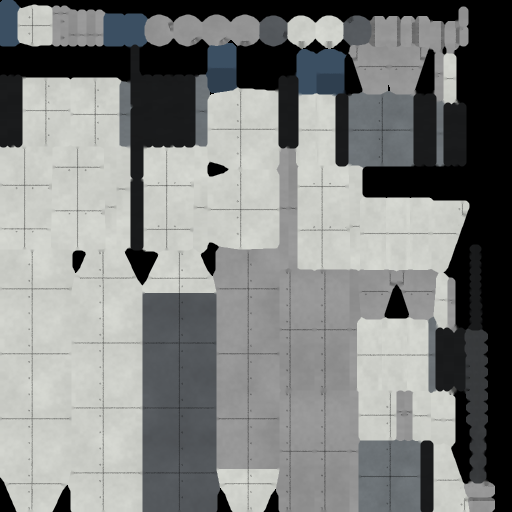
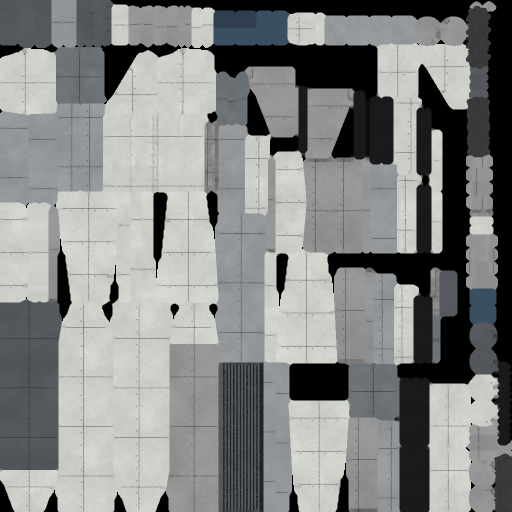
Swift is a winged airdrop plane: flies through the unload circle without stopping, riders fall spread over it and land 2.5 s later
Claude-Session: https://claude.ai/code/session_01EkPmaiVXHVPKWnxR7eMipw

diff --git a/src/sim/systems.rs b/src/sim/systems.rs
@@ -879,11 +879,17 @@ fn think(
         if effects.loaded.iter().any(|l| l.0 == u.id) {
             continue;
         }
+        // Still falling from an airdrop: orders wait for the landing.
+        if mover.as_ref().is_some_and(|m| m.drop > 0.0) {
+            continue;
+        }
         let (pos, id, owner) = (body.pos, u.id, u.owner);
         let team = game.team_of(owner);
         let is_struct = df.is_structure();
         let plane = df.is_plane();
         let arrive = if plane { 9.0 } else { 0.8 };
+        // A transport plane cannot stop to load: it scoops up what it flies close over.
+        let scoop = if plane { PLANE_SCOOP } else { 0.0 };
         let mut goal: Option<V2> = None;
         let mut pop = false;
         // Popped orders that go round again (ferry routes; patrols always do), and an order to do first.
@@ -1372,7 +1378,7 @@ fn think(
             }
             Some(Order::Load(tid)) => {
                 pop = true;
-                let near = |t: &Cen| pos.dist(t.pos) <= 2.5 + t.radius + df.radius();
+                let near = |t: &Cen| pos.dist(t.pos) <= 2.5 + t.radius + df.radius() + scoop;
                 if is_struct {
                     // An occupiable building does not fetch anybody: infantry walk in.
                 } else if let Some(tr) = &df.transport {
@@ -1471,7 +1477,7 @@ fn think(
                                 }
                             });
                             if let Some(t) = best.and_then(|b| census.get(b.1)) {
-                                if pos.dist(t.pos) <= 2.5 + t.radius + df.radius() {
+                                if pos.dist(t.pos) <= 2.5 + t.radius + df.radius() + scoop {
                                     commands.entity(t.e).insert(Hosted(id));
                                     effects.loaded.push((t.id, id));
                                 } else {
@@ -1532,7 +1538,7 @@ fn think(
                     });
                     if let Some(t) = best.and_then(|b| census.get(b.1)) {
                         pop = false;
-                        if pos.dist(t.pos) <= 2.5 + t.radius + df.radius() {
+                        if pos.dist(t.pos) <= 2.5 + t.radius + df.radius() + scoop {
                             commands.entity(t.e).insert(Hosted(id));
                             effects.loaded.push((t.id, id));
                         } else {
@@ -1566,49 +1572,69 @@ fn think(
                         ));
                     }
                     pop = true;
-                } else if pos.dist(c) > arrive.max(1.5) {
+                } else if !plane && pos.dist(c) > arrive.max(1.5) {
                     goal = Some(c);
                 } else {
-                    // Everybody out, spread over the circle (a spiral from the middle).
-                    let n = cargo.len() as f32;
+                    let r = radius.max(1.5);
+                    // Who was set down this tick, and where they will stand.
+                    let mut released: Vec<(&Cen, V2)> = vec![];
+                    if plane {
+                        // An airdrop on the go: the plane flies straight through the circle and lets each rider
+                        // go as it passes over his spot; he falls (`Mover.drop`, mostly for show) and lands
+                        // `DROP_SECS` later. What is left when it flies out of the circle comes round again.
+                        let dir = V2::from_angle(body.yaw);
+                        let rel = pos - c;
+                        if rel.len() > r + AIRDROP_MARGIN {
+                            goal = Some(c);
+                        } else {
+                            goal = Some(pos + dir * 30.0);
+                            let along = rel.x * dir.x + rel.y * dir.y;
+                            for t in cargo.iter() {
+                                let spot = drop_spot(t.id, c, r);
+                                if along < (spot.x - c.x) * dir.x + (spot.y - c.y) * dir.y {
+                                    continue;
+                                }
+                                let to = set_down(&map, &nav, spot);
+                                let from = Body { pos, y: body.y, yaw: body.yaw, vel: v2(0.0, 0.0) };
+                                let mover = Mover { anchor: to, path_goal: to, drop: DROP_SECS, drop_from: pos, drop_to: to, drop_h: (body.y - map.h(to)).max(1.0), ..default() };
+                                commands.entity(t.e).try_remove::<Hosted>().try_insert((from, mover));
+                                released.push((t, to));
+                            }
+                        }
+                    } else {
+                        // Everybody out, spread over the circle (a spiral from the middle).
+                        let n = cargo.len() as f32;
+                        for (k, t) in cargo.iter().enumerate() {
+                            let p = set_down(&map, &nav, c + V2::from_angle(k as f32 * 2.4) * (r * ((k as f32 + 0.5) / n).sqrt()));
+                            // Their own orders stay: what they were told to do before or while riding.
+                            commands.entity(t.e).try_remove::<Hosted>().try_insert((Body { pos: p, y: map.h(p), yaw: body.yaw, vel: v2(0.0, 0.0) }, Mover { anchor: p, path_goal: p, ..default() }));
+                            released.push((t, p));
+                        }
+                    }
                     // A dragged circle: infantry go on into the free buildings in it (the nearest to where they
                     // are set down, while there is room); the rest just stand spread out.
-                    let mut room_left: Vec<(u32, V2, i32)> = vec![];
-                    if occupy {
+                    if occupy && !released.is_empty() {
+                        let mut room_left: Vec<(u32, V2, i32)> = vec![];
                         for b in census.list.iter().filter(|b| b.structure && b.done && !b.hosted && b.hp > 0.0 && b.host != id && defs.get(b.def).is_garrison() && c.dist(b.pos) <= radius + b.radius) {
                             let Some(tr) = &defs.get(b.def).transport else { continue };
                             let used: i32 = census.list.iter().filter(|r| r.host == b.id && r.hp > 0.0).map(|r| defs.get(r.def).cargo as i32).sum();
                             room_left.push((b.id, b.pos, tr.capacity as i32 - used));
                         }
                         room_left.sort_by_key(|r| r.0);
-                    }
-                    let mut enter: Vec<(u32, u32)> = vec![];
-                    for (k, t) in cargo.iter().enumerate() {
-                        let mut p = map.clamp(c + V2::from_angle(k as f32 * 2.4) * (radius.max(1.5) * ((k as f32 + 0.5) / n).sqrt()));
-                        if nav.at(&map, p) != 0 {
-                            let (cx, cy) = map.cell_of(p);
-                            if let Some((x, y)) = nearest_free(&nav.occ, map.n, cx, cy) {
-                                p = v2((x as f32 + 0.5) * CELL, (y as f32 + 0.5) * CELL);
+                        for &(t, p) in &released {
+                            let td = defs.get(t.def);
+                            if !td.is_infantry() || !carriable(td) {
+                                continue;
                             }
-                        }
-                        // Their own orders stay: what they were told to do before or while riding.
-                        commands.entity(t.e).try_remove::<Hosted>().try_insert((Body { pos: p, y: map.h(p), yaw: body.yaw, vel: v2(0.0, 0.0) }, Mover { anchor: p, path_goal: p, ..default() }));
-                        let td = defs.get(t.def);
-                        if occupy && td.is_infantry() && carriable(td) {
                             let best = room_left.iter_mut().filter(|r| r.2 >= td.cargo as i32 && census.get(r.0).is_some_and(|b| may_board(&defs, &census, td, b, team))).min_by(|a, b| a.1.dist(p).total_cmp(&b.1.dist(p)).then(a.0.cmp(&b.0)));
                             if let Some(r) = best {
                                 r.2 -= td.cargo as i32;
-                                enter.push((t.id, r.0));
+                                // Their queued orders give way; the others stay where they stand.
+                                commands.entity(t.e).try_insert(Orders(vec![Order::Load(r.0)]));
                             }
                         }
                     }
-                    // Those with a building go to it (their queued orders give way); the others stay where they stand.
-                    for (rid, bid) in enter {
-                        if let Some(t) = census.get(rid) {
-                            commands.entity(t.e).try_insert(Orders(vec![Order::Load(bid)]));
-                        }
-                    }
-                    pop = true;
+                    pop = released.len() == cargo.len();
                 }
             }
             Some(Order::ReclaimArea { pos: c, radius }) => {
@@ -1695,6 +1721,20 @@ const FERRY_PICK: f32 = 12.0;
 const FERRY_COMING: f32 = 40.0;
 const FERRY_SAME: f32 = 4.0;
 const FERRY_DROP: f32 = 6.0;
+/// Airdrops: how long a rider falls (visual, but he is helpless meanwhile), and how far outside the
+/// circle a transport plane is already lined up to start letting go.
+pub const DROP_SECS: f32 = 2.5;
+const AIRDROP_MARGIN: f32 = 4.0;
+/// A transport plane picks units up within this much more than a hovering transport does.
+const PLANE_SCOOP: f32 = 5.0;
+
+/// Where rider `id` of an airdrop over the circle (`c`, `r`) lands: a spread that depends on the id
+/// alone (golden-ratio angle and radius), so every tick agrees however many are already out.
+fn drop_spot(id: u32, c: V2, r: f32) -> V2 {
+    let k = id as f32;
+    let f = k * 0.618034;
+    c + V2::from_angle(k * 2.4) * (r * (f - f.floor()).sqrt())
+}
 
 /// Can unit type `df` of `team` get into `t`? Transports take their own side; infantry also
 /// walk into an empty (neutral) building or one their side already holds. A map building whose
@@ -2305,6 +2345,18 @@ fn locomotion(
         let mv = &df.mv;
         let old = body.pos;
         let turn = mv.turn.to_radians();
+        if m.drop > 0.0 {
+            // An airdrop fall: glides down onto its spot and does nothing else until it lands.
+            m.drop = (m.drop - DT).max(0.0);
+            let t = 1.0 - m.drop / DROP_SECS;
+            body.pos = m.drop_from + (m.drop_to - m.drop_from) * t;
+            let ground = if mv.amphibious { map.surface(body.pos) } else { map.h(body.pos) };
+            body.y = ground + m.drop_h * (1.0 - t * t);
+            m.speed = 0.0;
+            m.path.clear();
+            body.vel = v2(0.0, 0.0);
+            continue;
+        }
         if m.hold > 0.0 && mv.kind != MoveKind::Plane {
             // Set up to fire: stays where it is, hull and all, until the hold runs out.
             m.hold = (m.hold - DT).max(0.0);
@@ -2758,6 +2810,10 @@ fn weapons(
     let g = defs.rules.gravity;
     let tick = game.tick;
     for (u, body, mut ws, mut mover, hosted) in q.iter_mut().sort_by_key::<&Unit, _>(|u| u.id) {
+        // Still falling from an airdrop.
+        if mover.as_ref().is_some_and(|m| m.drop > 0.0) {
+            continue;
+        }
         // Infantry fighting off a storm of their building are too busy to shoot out of it.
         if hosted.is_some_and(|h| effects.stormed.contains(&h.0)) {
             continue;

diff --git a/src/main.rs b/src/main.rs
@@ -3441,6 +3441,52 @@ fn combattest() {
         println!("== Transport aircraft (capacity {cap}, a tank takes 4 slots) offered 10 tanks: carried {most}, set down at the target {moved}, left behind {left}.  APC: {in_apc} of 3 boarded, {out} set down and drove on to their queued goal");
         assert!(most == cap as usize / 4 && moved == most && left == 10 - most && in_apc == 3 && out == 3, "transports");
     }
+    // 9a. Swift transport plane: scoops up troopers it flies over, then drops them over a dragged circle
+    // without stopping; they fall spread over it and land about 2.5 s later.
+    {
+        let (mut app, map) = flat_world(192);
+        let world = app.world_mut();
+        let swift = spawn(world, &map, "fast_transport", 0, v2(60.0, 100.0), 0.0);
+        let men: Vec<u32> = (0..8).map(|k| spawn(world, &map, "trooper", 0, v2(100.0 + (k % 4) as f32 * 1.5, 100.0 + (k / 4) as f32 * 1.5), 0.0)).collect();
+        world.flush();
+        let (target, radius) = (v2(220.0, 100.0), 14.0);
+        let house = spawn(world, &map, "house", NEUTRAL, v2(224.0, 104.0), 0.0);
+        order(world, vec![swift], Order::LoadArea { pos: v2(101.0, 100.7), radius: 10.0 });
+        world.resource_mut::<CommandQueue>().0.push((0, Command::Orders { ids: vec![swift], orders: vec![Order::Unload { pos: target, radius, occupy: true }], queue: true }));
+        let (mut most, mut slowest, mut first_fall, mut landed, mut high) = (0, f32::MAX, None, None, 0.0f32);
+        let mut last = v2(0.0, 0.0);
+        for t in 0..1500u32 {
+            world.run_schedule(SimTick);
+            let mut q = world.query::<&Hosted>();
+            most = most.max(q.iter(world).filter(|h| h.0 == swift).count());
+            let mut q = world.query::<(&Unit, &Body)>();
+            let plane = q.iter(world).find(|(u, _)| u.id == swift).map(|(_, b)| b.pos).unwrap();
+            let mut q = world.query::<(&Unit, &Body, &Mover)>();
+            let falling = q.iter(world).filter(|(u, _, m)| men.contains(&u.id) && m.drop > 0.0).count();
+            if falling > 0 {
+                first_fall.get_or_insert(t);
+                if t > 0 {
+                    slowest = slowest.min(plane.dist(last) / 0.1);
+                }
+                for (u, b, _) in q.iter(world).filter(|(u, _, m)| men.contains(&u.id) && m.drop > 0.0) {
+                    let _ = u;
+                    high = high.max(b.y);
+                }
+            }
+            if first_fall.is_some() && falling == 0 && landed.is_none() {
+                landed = Some(t);
+            }
+            last = plane;
+        }
+        let mut q = world.query::<(&Unit, &Body, Has<Hosted>)>();
+        let spots: Vec<V2> = q.iter(world).filter(|(u, _, h)| men.contains(&u.id) && !h).map(|(_, b, _)| b.pos).collect();
+        let inside = spots.iter().filter(|p| p.dist(target) <= radius + 2.0).count();
+        let in_house = world.query::<&Hosted>().iter(world).filter(|h| h.0 == house).count();
+        let spread = spots.iter().map(|p| p.dist(target)).fold(0.0, f32::max);
+        let secs = landed.zip(first_fall).map_or(0.0, |(l, f)| (l - f) as f32 * 0.1);
+        println!("== Swift airdrop: {most} of 8 scooped up, {inside} landed in the circle and {in_house} walked into the house there (widest {spread:.1} of {radius}), first fall at tick {first_fall:?}, all down {secs:.1} s after, plane never slower than {slowest:.1}, highest rider {high:.1}");
+        assert!(most == 8 && inside + in_house == 8 && in_house > 0 && spread > radius * 0.5 && slowest > 15.0 && (2.0..4.0).contains(&secs) && high > 4.0, "swift airdrop");
+    }
     // 9b. Ferry route: a transport shuttles between its beacon and the drop point until everybody
     // waiting at the beacon is across; they then go on with the orders queued behind the ferry.
     {

diff --git a/art/models_air.py b/art/models_air.py
@@ -224,22 +224,25 @@ def air_transport():
 
 @model
 def fast_transport():
-    """T3 Swift: tilt-rotor assault transport, rotors at the wing tips."""
+    """T3 Swift: high-winged airdrop transport, twin turboprops, T-tail, rear cargo ramp."""
     k = Kit("fast_transport")
     w, h = 0.95, 1.0
     sec = [(-w / 2, 0.1), (w / 2, 0.1), (w / 2 + 0.04, 0.6), (w / 2 - 0.08, h), (-w / 2 + 0.08, h), (-w / 2 - 0.04, 0.6)]
-    k.prism(sec, "y", -1.6, 1.4, "tank", side_mats=["steel_d", "tank", "tank", "team", "tank", "tank"])
-    k.prism(sec, "y", -1.6, -2.15, "tank", scale1=0.45)
-    k.prism([(1.4, 0.55), (2.25, 0.85), (2.25, 1.0), (1.4, h)], "x", -0.3, 0.3, "tank")
-    k.box((0.5, 0.35, 0.2), (0, -1.9, 0.75), "glass", rot=(-35, 0, 0))
-    wing(k, -0.35, 0.65, 1.35, 0.6, 0.05, h, t=0.07, x0=0.1, tip_mat=None)
+    k.prism(sec, "y", -1.5, 1.5, "tank", side_mats=["steel_d", "tank", "tank", "team", "tank", "tank"])
+    k.prism(sec, "y", -1.5, -2.2, "tank", scale1=0.45)
+    k.prism([(1.5, 0.15), (2.5, 0.75), (2.5, 0.95), (1.5, h)], "x", -0.3, 0.3, "tank")  # upswept tail cone
+    k.box((0.5, 0.35, 0.2), (0, -1.85, 0.75), "glass", rot=(-35, 0, 0))
+    wing(k, -0.5, 1.0, 1.9, 0.55, 0.25, h, t=0.09, x0=0.35)
+    k.box((0.7, 2.6, 0.12), (0, -0.1, h + 0.04), "steel", faces={"top": "vent"})  # wing-root fairing
+    fin(k, 0, 1.75, 1.15, 0.75, 0.45, h - 0.05)
+    wing(k, 2.05, 0.45, 0.85, 0.3, 0.15, 2.0, t=0.05, x0=0.0, tip_mat=None)  # T-tailplane
     for s in (-1, 1):
-        fin(k, s * 0.55, 1.75, 0.6, 0.45, 0.2, 0.95, cant=0)
-        k.box((0.04, 1.6, 0.4), (s * (w / 2 + 0.03), 0.0, 0.5), "team")
-    for name, s in (("Rotor_L", -1), ("Rotor_R", 1)):
-        x = s * 1.5
-        k.cyl(0.16, 0.9, (x, -0.45, h + 0.05), "tank", axis="y", seg=10, caps={0: "steel_d"})
-        k.cyl(0.165, 0.12, (x, 0.0, h + 0.05), "team", axis="y", seg=10)
-        rotor(k, name, (x, -0.45, h + 0.28), 0.9, blades=3)
-    k.box((0.9, 0.04, 0.8), (0, 1.42, 0.5), "metal_door")
+        k.box((0.04, 1.6, 0.4), (s * (w / 2 + 0.03), 0.1, 0.5), "team")
+        k.box((0.3, 1.5, 0.4), (s * (w / 2 + 0.08), 0.35, 0.25), "steel")  # gear pods
+        x = s * 1.15
+        k.cyl(0.19, 1.3, (x, -0.95, 0.78), "tank", axis="y", seg=10, caps={0: "steel_d"})
+        k.cyl(0.195, 0.14, (x, -0.55, 0.78), "team", axis="y", seg=10)
+        k.box((0.05, 0.7, 0.2), (x, -0.4, 0.92), "steel_d")  # pylon
+        prop(k, "Prop_L" if s < 0 else "Prop_R", (x, -0.98, 0.78), 0.55, blades=4)
+    k.box((0.85, 0.04, 0.75), (0, 1.62, 0.5), "metal_door", rot=(-8, 0, 0))  # rear ramp
     return k

diff --git a/src/sim/mod.rs b/src/sim/mod.rs
@@ -283,6 +283,16 @@ pub struct Mover {
     /// Seconds left that the unit must stay put after firing a weapon with a `hold` (mortars).
     #[serde(default)]
     pub hold: f32,
+    /// Seconds left of an airdrop fall (`systems::DROP_SECS` at the start): the unit glides from
+    /// `drop_from` to `drop_to`, `drop_h` above the ground at first, and does nothing until it lands.
+    #[serde(default)]
+    pub drop: f32,
+    #[serde(default)]
+    pub drop_from: V2,
+    #[serde(default)]
+    pub drop_to: V2,
+    #[serde(default)]
+    pub drop_h: f32,
 }
 
 /// A unit's wreck, or a piece of debris a building dropped (`piece` > 0).

diff --git a/CLAUDE.md b/CLAUDE.md
@@ -431,7 +431,7 @@ drops terrain at the screen sides (edit `fov/near/far` in place).
   radar car, T2 Overtaker/Crony/Dragoon/Robin/Sparky, T3 Bohdana (the Overtaker moved from T1 on request). Change `tier` in JSON to move a unit.
   Our own additions (not in the mod; they reuse the trooper model): T2 AT Trooper (guided missile) and
   SAM Trooper (homing AA missile). Also ours: Radar Tower Mk2/Mk3 (lattice masts), UC-02R/03R mobile radars
-  (radar car mesh with a raised dish / a radome), T3 Swift fast assault transport (tilt-rotor, 2x Stork speed, 8 slots like the Stork; moved from T2 on request). T3 Cyclone interceptor (stealth fighter model, stealth 2, own
+  (radar car mesh with a raised dish / a radome), T3 Swift airdrop transport plane (winged cargo plane with turboprops, a real `plane`: 2x Stork speed, 8 slots like the Stork; moved from T2 on request; see **Airdrops**). T3 Cyclone interceptor (stealth fighter model, stealth 2, own
   T3 radar 80 so it finds stealthed aircraft) and T3 Phalanx Railgun Battery (own model, own T3 radar 120). (A T1 Flak Trooper existed and was removed on request.)
   Mobile anti-air beyond the T1 MBFAG (requested; there is no T3 SAM trooper, only the T2 one): T2 Hailstorm
   (`flak_carrier`, Dragoon mesh + twin flak guns, airburst flak bursts, air only) and T3 Skylance (`mobile_sam`, Robin mesh + missile box, own level-2
@@ -595,6 +595,16 @@ drops terrain at the screen sides (edit `fov/near/far` in place).
   when full or when nobody who fits is waiting within `FERRY_PICK` or still coming within `FERRY_COMING`. A waiting
   unit gives up when no own transport has that beacon (`Cen::beacon`; `apply_commands` refreshes both fields after
   new orders). `--combattest` "Ferry" line: 6 tanks across in 3 trips, then on to their queued goal.
+- **Airdrops** (the Swift, `MoveKind::Plane` with a `transport` block; `systems.rs`, `Order::Unload`): a transport plane cannot stop, so
+  it never lands. *Unloading*: it flies at the circle (a click is a circle of 3), and once within `AIRDROP_MARGIN` of it flies straight on
+  through, letting each rider go when it passes over his spot (`drop_spot(id, c, r)`: golden-ratio angle and radius from the id alone, so the
+  spread does not depend on who is already out); riders left when it flies out of the circle are dropped on the next pass. A released rider gets
+  `Mover.drop` (`DROP_SECS` 2.5, snapshotted with the Mover): `locomotion` glides it from the plane to its spot, `drop_h` above the ground at
+  first (`h (1 - t^2)`), and `think` / `weapons` leave it alone until it lands - for gameplay the fall is mostly visual, but he is helpless for
+  2.5 s. *Loading*: it scoops up what it flies within `PLANE_SCOOP` (5) more than a hovering transport would (`Load`, `LoadArea`, ferry beacons: it
+  circles round the beacon). `Unload.occupy` (set by the HUD for a dragged circle, also for APCs and the Stork): the infantry set down get
+  `Order::Load(building)` for the nearest free garrisonable building in the circle (capacity and `may_board` counted), the rest stay spread out.
+  `--combattest` "Swift airdrop" line (scoops 8 troopers, drops them over a circle with a house in it, never slows down, they land 2-4 s later).
 - **Small arms** (damage type `SmallArms`: the Trooper and Sniper rifles and every machine gun): every armored class
   takes 0.1 of it (`LightTank`, `MediumTank`); the other classes take what they take from `Normal` (Light 1,
   Structure 0.6, Commander 0.5, Air 1, Civilian 0.3). Requested: armour shrugs off rifles and machine guns.
